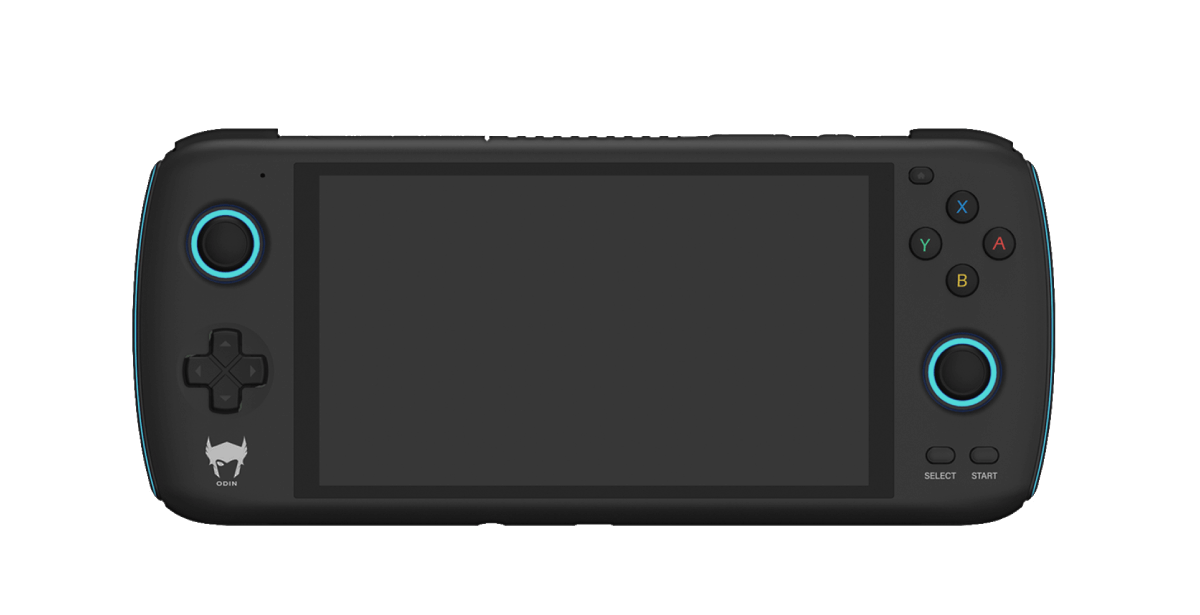
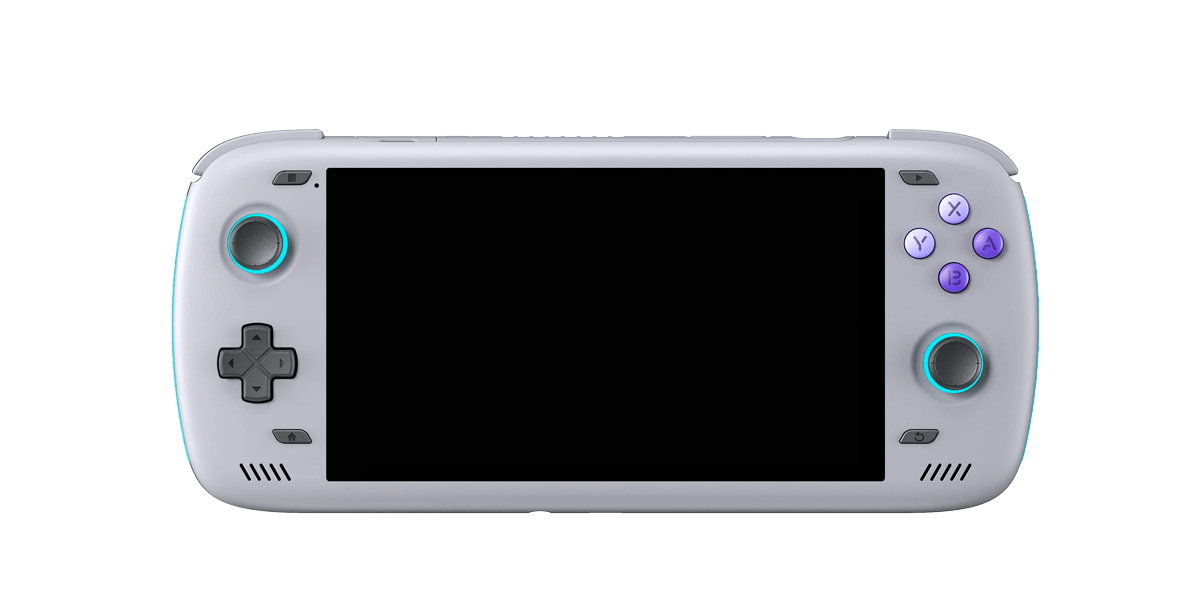
Android

diff --git a/index.html b/index.html
@@ -577,6 +577,9 @@
 		transition-duration: 0.15s;
 		font-weight: 500;
 	  }
+	  .download_links button{
+		  padding: 0.8em;
+	  }
 	  .gradient button,
 	  button.dark {
 		background-color: #1b1b1b;
@@ -2322,8 +2325,8 @@
 		  ></iframe>
 		  </div>
 		</div>
-		<img class="fade_out" src="img/hero_ally.png" />
-		<img class="fade_in" src="img/hero.png" />
+		<img class="fade_out" src="img/hero.png" />
+		<img class="fade_in" src="img/hero-android.png" />
 		</div>
 	  </div>
 	  </div>
@@ -2451,7 +2454,7 @@
 		  <div class="col_6">
 			<h2>SteamOS, Windows, and Rog Ally</h2>
 			<p class="large">
-			  EmuDeck for Windows will launch as a stable release before 2024, with a Public Beta available now. Check our Patreon for updates on the development of these and other features.
+			  EmuDeck for Windows gives you the same easo of use than our SteamOS version. Check our Patreon for updates on the development of these and other features.
 			</p>
 		  </div>
 		  <div class="col_6">
@@ -2530,19 +2533,6 @@
 				  ><button>
 					<nobr
 					  >SteamOS
-					  <svg
-						class="rightarrow"
-						width="32"
-						height="32"
-						viewBox="0 0 32 32"
-						fill="none"
-						xmlns="http://www.w3.org/2000/svg"
-					  >
-						<path
-						  fill="currentColor"
-						  d="M16.4091 8.48003L21.5024 13.5734L1.98242 13.5734L1.98242 18.0178H21.5024L16.4091 23.1111L19.5558 26.2578L30.018 15.7956L19.5558 5.33337L16.4091 8.48003Z"
-						></path>
-					  </svg>
 					</nobr></button
 				></a>
 			  </li>
@@ -2552,19 +2542,6 @@
 				  ><button>
 					<nobr
 					  >ChimeraOS
-					  <svg
-						class="rightarrow"
-						width="32"
-						height="32"
-						viewBox="0 0 32 32"
-						fill="none"
-						xmlns="http://www.w3.org/2000/svg"
-					  >
-						<path
-						  fill="currentColor"
-						  d="M16.4091 8.48003L21.5024 13.5734L1.98242 13.5734L1.98242 18.0178H21.5024L16.4091 23.1111L19.5558 26.2578L30.018 15.7956L19.5558 5.33337L16.4091 8.48003Z"
-						></path>
-					  </svg>
 					</nobr></button
 				></a>
 			  </li>
@@ -2574,19 +2551,6 @@
 				  ><button>
 					<nobr
 					  >Linux
-					  <svg
-						class="rightarrow"
-						width="32"
-						height="32"
-						viewBox="0 0 32 32"
-						fill="none"
-						xmlns="http://www.w3.org/2000/svg"
-					  >
-						<path
-						  fill="currentColor"
-						  d="M16.4091 8.48003L21.5024 13.5734L1.98242 13.5734L1.98242 18.0178H21.5024L16.4091 23.1111L19.5558 26.2578L30.018 15.7956L19.5558 5.33337L16.4091 8.48003Z"
-						></path>
-					  </svg>
 					</nobr></button
 				></a>
 
@@ -2596,47 +2560,32 @@
 				<a href="#early-access" id="download_link_windows"
 				  ><button>
 					<nobr
-					  >Windows Beta
-					  <svg
-						class="rightarrow"
-						width="32"
-						height="32"
-						viewBox="0 0 32 32"
-						fill="none"
-						xmlns="http://www.w3.org/2000/svg"
-					  >
-						<path
-						  fill="currentColor"
-						  d="M16.4091 8.48003L21.5024 13.5734L1.98242 13.5734L1.98242 18.0178H21.5024L16.4091 23.1111L19.5558 26.2578L30.018 15.7956L19.5558 5.33337L16.4091 8.48003Z"
-						></path>
-					  </svg>
+					  >Windows
 					</nobr></button
 				></a>
 
 			  </li>
-			  <li style="display:none">
+			  <li>
+				  <img src="img/androidLogo.png" alt="Android">
+				  <a href="#early-access" id="download_link_android" class="patreon_btn"
+					><button>
+					  <nobr
+						>Android Early
+					  </nobr></button
+				  ></a>
+
+				</li>
+
+			  <!-- <li>
 				<img src="img/appleLogo.png" alt="MacOS">
 				<a href="#early-access" id="download_link_macos" class="patreon_btn"
 				  ><button>
 					<nobr
 					  >MacOS
-					  <svg
-						class="rightarrow"
-						width="32"
-						height="32"
-						viewBox="0 0 32 32"
-						fill="none"
-						xmlns="http://www.w3.org/2000/svg"
-					  >
-						<path
-						  fill="currentColor"
-						  d="M16.4091 8.48003L21.5024 13.5734L1.98242 13.5734L1.98242 18.0178H21.5024L16.4091 23.1111L19.5558 26.2578L30.018 15.7956L19.5558 5.33337L16.4091 8.48003Z"
-						></path>
-					  </svg>
 					</nobr></button
 				></a>
 
-			  </li>
+			  </li> -->
 
 			</ul>
 			<h3 class="h-sep">Need any help or want to contact the EmuDeck team?</h3>
@@ -2662,12 +2611,12 @@
 		<div class="col_12 center">
 		  <h2>Introducing Early Access</h2>
 		  <p class="large">
-			Interested in getting new features early? Support EmuDeck on Patreon for a sneak peek of the latest features like Synced Saves across different EmuDeck installation and even other platform like OnionOS, local multiplayer, interoperability with other platforms, and more things to come!
+			Interested in getting new features early? Support EmuDeck on Patreon for a sneak peek of the latest features like Synced Saves across different EmuDeck installation and even other platform like OnionOS, Android support, and more things to come!
 		  </p>
 		  <a id="patreon_link_early" target="_blank" href="https://www.patreon.com/bePatron?u=29065992" class="patreon_btn"
 			><button>
 			  <nobr
-				>Become a Patron
+				>Become a Patron to get Early Access
 				<svg height="22" width="22" viewBox="0 0 24 24" xmlns="http://www.w3.org/2000/svg">
 				  <path
 					d="M14.82 2.398c-3.97 0-7.2 3.234-7.2 7.208 0 3.963 3.23 7.187 7.2 7.187 3.959 0 7.18-3.224 7.18-7.187 0-3.974-3.221-7.208-7.18-7.208zM2 21.598h3.516v-19.2H2v19.2z"
